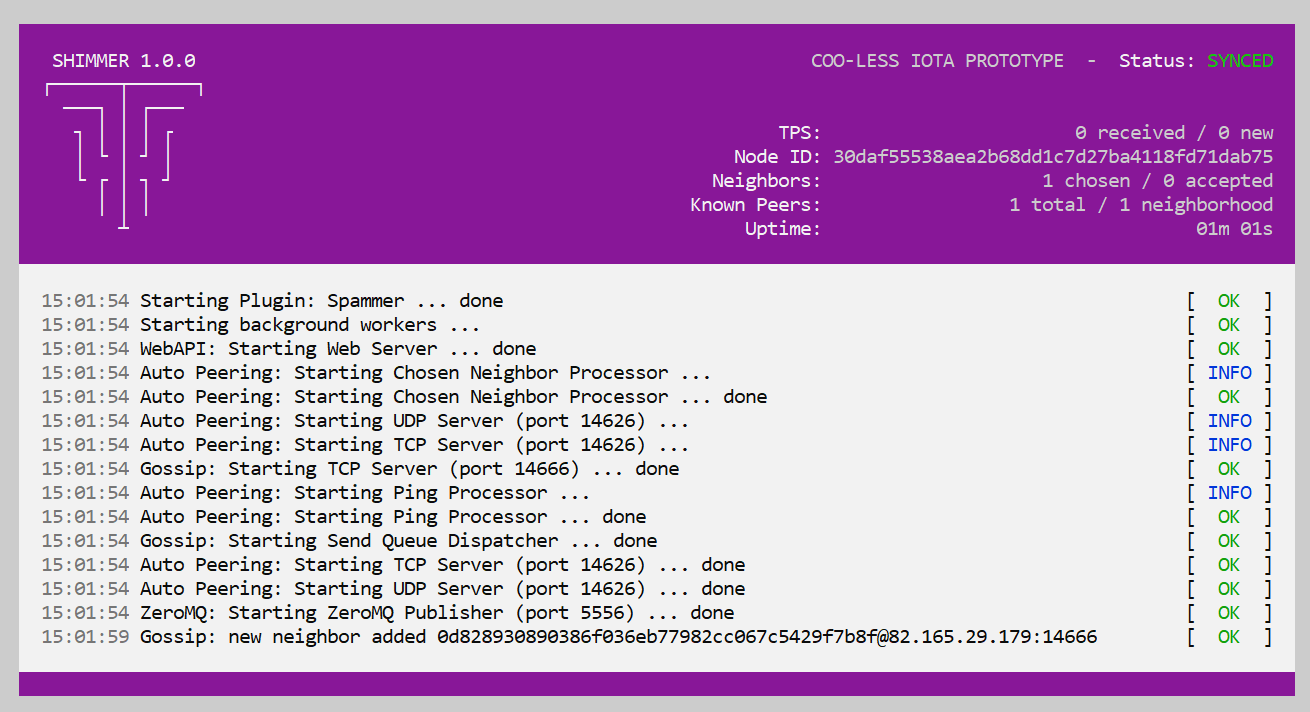
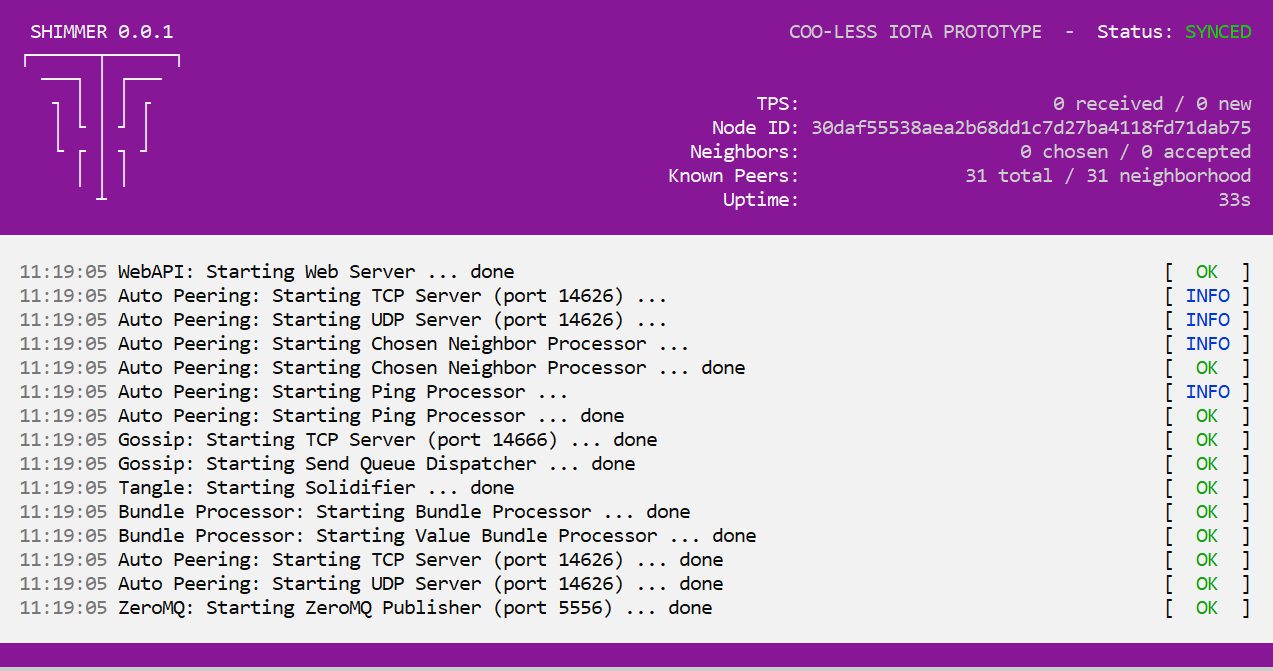
update image and command-line flag descriptions

Changed region(s): [[0.0, 0.0, 1.0, 1.0], [0.5515, 0.5365, 0.5821, 0.5663]]

diff --git a/node-software/0.1/alphanet/how-to-guides/run-the-node.md b/node-software/0.1/alphanet/how-to-guides/run-the-node.md
@@ -75,7 +75,7 @@ To build the Docker container, you must install Docker 17.05+ (for multi-stage b
 
 ### Step 2. Run the node
 
-When you run the node, it joins the network by autopeering with the entry node that's run by the IOTA Foundation. To autopeer with this entry node, you must make sure that the autopeering and gossip ports are forwarded to your node. By default, these ports are 14666 and 14626. If you don't forward these ports, you can still send transaction to your node, but it won't be able to connect to any neighbors.
+When you run the node, it joins the network by autopeering with the entry node that's run by us at the IOTA Foundation. To autopeer with this entry node, you must make sure that the autopeering and gossip ports are forwarded to your node. By default, these ports are 14666 and 14626. If you don't forward these ports, you can still send transaction to your node, but it won't be able to connect to any neighbors.
 
 1. Clone the `goshimmer` repository
     
@@ -103,7 +103,7 @@ When you run the node, it joins the network by autopeering with the entry node t
 
     :::info:
     You can customize some features of your node by adding [command-line flags](../references/command-line-flags.md) after the `run` command.
-    
+
     To have the Docker container restart on every reboot, add the `--restart=always` flag to the `run` command.
    :::
 
@@ -118,7 +118,7 @@ The user interface displays the following statistics in the top-right corner:
 * **TPS:** The number of transactions per second, which are separated into two categories. The **received** transactions are those that the node has just appended to its ledger. The **new** transactions are solid transactions.
 * **Node ID:** The node's public key that gives it a unique identity
 * **Neighbors:** The number of neighbors that the node is connected to. All nodes can have a maximum of 8 neighbors. Each node chooses 4 neighbors to connect to and accepts incoming connections from 4 other neighbors that chose it.
-* **Known peers:** The total number of neighbors that the node is connected to. At the moment, the number of **neighborhood** nodes is the same as the number of **total** nodes. When the network allows sharding, the **neighborhood** nodes will be those that are in the node's shard.
+* **Known peers:** The total number of nodes in the network. At the moment, the number of **neighborhood** nodes is the same as the number of **total** nodes. When the network allows sharding, the **neighborhood** nodes will be those that are in the node's shard.
 * **Uptime:** The total amount of time during which the node has been running
 
 ## Run the node on your local device
@@ -171,7 +171,7 @@ To complete this guide, you need the following:
 
 ### Step 2. Run the node
 
-When you run the node, it joins the network by autopeering with the entry node that's run by the IOTA Foundation. To autopeer with this entry node, you must make sure that the autopeering and gossip ports are forwarded to your node. By default, these ports are 14666 and 14626. If you don't forward these ports, you can still send transaction to your node, but it won't be able to connect to any neighbors.
+When you run the node, it joins the network by autopeering with the entry node that's run by us at the IOTA Foundation. To autopeer with this entry node, you must make sure that the autopeering and gossip ports are forwarded to your node. By default, these ports are 14666 and 14626. If you don't forward these ports, you can still send transaction to your node, but it won't be able to connect to any neighbors.
 
 1. Build the executable file
 
@@ -195,14 +195,14 @@ When you run the node, it joins the network by autopeering with the entry node t
 You're now running a node on the Coordicide Alphanet.
 :::
 
-![Alphanet user interface](../images/goshimmer.gif)
+![Alphanet user interface](../images/goshimmer.png)
 
 The user interface displays the following statistics in the top-right corner:
 
 * **TPS:** The number of transactions per second, which are separated into two categories. The **received** transactions are those that the node has just appended to its ledger. The **new** transactions are solid transactions.
 * **Node ID:** The node's public key that gives it a unique identity
 * **Neighbors:** The number of neighbors that the node is connected to. All nodes can have a maximum of 8 neighbors. Each node chooses 4 neighbors to connect to and accepts incoming connections from 4 other neighbors that chose it.
-* **Known peers:** The total number of neighbors that the node is connected to. At the moment, the number of **neighborhood** nodes is the same as the number of **total** nodes. When the network allows sharding, the **neighborhood** nodes will be those that are in the node's shard.
+* **Known peers:** The total number of nodes in the network. At the moment, the number of **neighborhood** nodes is the same as the number of **total** nodes. When the network allows sharding, the **neighborhood** nodes will be those that are in the node's shard.
 * **Uptime:** The total amount of time during which the node has been running
 
 ## Next steps

diff --git a/node-software/0.1/alphanet/references/command-line-flags.md b/node-software/0.1/alphanet/references/command-line-flags.md
@@ -8,10 +8,10 @@ If you've downloaded the code, you can also run it with the `-h` or `--help` fla
 
 | **Command-line flags** |  **Description**| **Accepted values** | **Default value**|**Notes** |
 | :------------------------ | :--------------- | :--------- | :--------| :------------|:-----|
-|<a name="analysis-server-address"></a> `-analysis-server-address`|Set the TCP server for collecting analysis information| string | 82.165.29.179:188 |
-|<a name="analysis-server-port"></a>`-analysis-server-port` |Set the TCP port for incoming analysis packets |number |188|
+|<a name="analysis-server-address"></a> `-analysis-server-address`|Set the server to which your node sends information such as its neighbors| string | 159.69.158.51:188 |We use this information to help us research how the network behaves. For example, we use the information sent to the analysis server to populate [this visualiation of the network](http://159.69.158.51/).
+|<a name="analysis-server-port"></a>`-analysis-server-port` |Set the TCP port for your own analysis server |number |188| If you want to run your own analysis server, forward this port to your device. Then, you can allow anyone to connect to your analysis server instead of the default.
 |<a name="autopeering-address"></a> `-autopeering-address` |Set the address to bind for incoming peering requests|string |0.0.0.0 | The default option accepts any address
-|<a name="autopeering-entry-nodes"></a>`-autopeering-entry-nodes` |Set a list of trusted entry nodes for auto-peering |string | 0d828930890386f036eb77982cc067c5429f7b8f@82.165.29.179:14626 |
+|<a name="autopeering-entry-nodes"></a>`-autopeering-entry-nodes` |Set a list of trusted entry nodes for auto-peering |string | 7f7a876a4236091257e650da8dcf195fbe3cb625@159.69.158.51:14626 |
 |<a name="autopeering-port"></a>`-autopeering-port` |Set the TCP port for incoming peering requests |number |14626 |
 |<a name="database-directory"></a>`-database-directory` |Set the path to the database folder  |string |mainnetdb | 
 |<a name="gossip-port"></a> `-gossip-port`|Set the TCP port for the gossip connection | number| 14666

diff --git a/node-software/0.1/alphanet/how-to-guides/subscribe-to-events.md b/node-software/0.1/alphanet/how-to-guides/subscribe-to-events.md
@@ -67,13 +67,13 @@ socket = context.socket(zmq.SUB)
 ### Node.js
 
 ```js
-sock.connect('tcp://[IP_ADDRESS]:5556');
+sock.connect('tcp://localhost:5556');
 ```
 ---
 ### Python
 
 ```python
-socket.connect('tcp://[IP_ADDRESS]:5556')
+socket.connect('tcp://localhost:5556')
 ```
 --------------------
 
